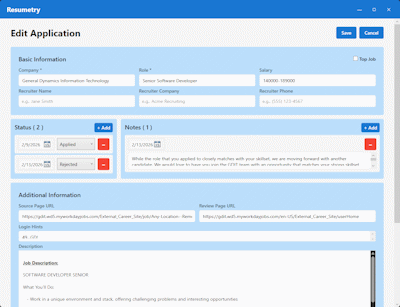
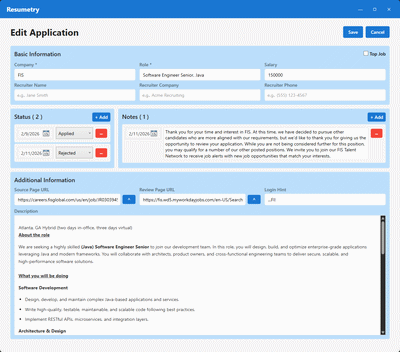
Button resize, added buttons to open browser for URLs.

diff --git a/Resumetry.WPF/Views/ApplicationFormView.xaml b/Resumetry.WPF/Views/ApplicationFormView.xaml
@@ -215,7 +215,7 @@
                                                         Command="{Binding DataContext.RemoveStatusCommand, RelativeSource={RelativeSource AncestorType=ItemsControl}}"
                                                         CommandParameter="{Binding}"
                                                         Width="36"
-                                                        Height="36"
+                                                        Height="28"
                                                         FontSize="18"
                                                         FontWeight="Bold"
                                                         Padding="0"
@@ -306,11 +306,12 @@
                                                             Command="{Binding DataContext.RemoveNoteCommand, RelativeSource={RelativeSource AncestorType=ItemsControl}}"
                                                             CommandParameter="{Binding}"
                                                             Width="36"
-                                                            Height="36"
+                                                            Height="28"
                                                             FontSize="18"
                                                             FontWeight="Bold"
                                                             Padding="0"
                                                             VerticalAlignment="Top"
+                                                            Margin="0 4 0 0"
                                                             ToolTip="Remove note"/>
                                                 </Grid>
                                             </Grid>
@@ -351,19 +352,58 @@
                             <!-- Source Page URL -->
                             <StackPanel Grid.Column="0">
                                 <TextBlock Text="Source Page URL" Style="{StaticResource FormLabelStyle}"/>
-                                <TextBox Text="{Binding SourcePageUrl, UpdateSourceTrigger=PropertyChanged}"
-                                         Style="{StaticResource ModernTextBoxStyle}"
-                                         helpers:WatermarkHelper.Watermark="https://..."
-                                         Height="36"/>
+                                <Grid Height="36">
+                                    <Grid.ColumnDefinitions>
+                                        <ColumnDefinition Width="*" />
+                                        <ColumnDefinition Width="40" />
+                                    </Grid.ColumnDefinitions>
+
+                                    <TextBox Grid.Column="0"
+                                             Text="{Binding SourcePageUrl, UpdateSourceTrigger=PropertyChanged}"
+                                             Style="{StaticResource ModernTextBoxStyle}"
+                                             helpers:WatermarkHelper.Watermark="https://..."
+                                             VerticalContentAlignment="Center"
+                                             Margin="0 0 6 0"/>
+
+                                    <!-- icon button -->
+                                    <Button Grid.Column="1"
+                                            Command="{Binding OpenUrlCommand}"
+                                            CommandParameter="{Binding SourcePageUrl}"
+                                            Style="{StaticResource PrimaryButtonStyle}"
+                                            Height="28"
+                                            Padding="0"
+                                            ToolTip="Open in browser"
+                                            Content="^"/>
+                                </Grid>
+
+
                             </StackPanel>
 
                             <!-- Review Page URL -->
                             <StackPanel Grid.Column="2">
                                 <TextBlock Text="Review Page URL" Style="{StaticResource FormLabelStyle}"/>
-                                <TextBox Text="{Binding ReviewPageUrl, UpdateSourceTrigger=PropertyChanged}"
-                                         Style="{StaticResource ModernTextBoxStyle}"
-                                         helpers:WatermarkHelper.Watermark="https://..."
-                                         Height="36"/>
+                                <Grid Height="36">
+                                    <Grid.ColumnDefinitions>
+                                        <ColumnDefinition Width="*" />
+                                        <ColumnDefinition Width="40" />
+                                    </Grid.ColumnDefinitions>
+
+                                    <TextBox Grid.Column="0"
+                                             Text="{Binding ReviewPageUrl, UpdateSourceTrigger=PropertyChanged}"
+                                             Style="{StaticResource ModernTextBoxStyle}"
+                                             helpers:WatermarkHelper.Watermark="https://..."
+                                             VerticalContentAlignment="Center"
+                                             Margin="0 0 6 0"/>
+
+                                    <Button Grid.Column="1"
+                                            Command="{Binding OpenUrlCommand}"
+                                            CommandParameter="{Binding ReviewPageUrl}"
+                                            Style="{StaticResource PrimaryButtonStyle}"
+                                            Height="28"
+                                            Padding="0"
+                                            ToolTip="Open in browser"
+                                            Content="^"/>
+                                </Grid>
                             </StackPanel>
                             
                             <!-- Login Hint -->

diff --git a/Resumetry.WPF/ViewModels/ApplicationFormViewModel.cs b/Resumetry.WPF/ViewModels/ApplicationFormViewModel.cs
@@ -1,4 +1,5 @@
 using System.Collections.ObjectModel;
+using System.Diagnostics;
 using CommunityToolkit.Mvvm.ComponentModel;
 using CommunityToolkit.Mvvm.Input;
 using CommunityToolkit.Mvvm.Messaging;
@@ -280,6 +281,21 @@ namespace Resumetry.ViewModels
         private void Cancel()
         {
             navigationService.NavigateToHome();
+        }
+
+        [RelayCommand]
+        private void OpenUrl(string? url)
+        {
+            if (string.IsNullOrWhiteSpace(url)) return;
+
+            try
+            {
+                Process.Start(new ProcessStartInfo(url) { UseShellExecute = true });
+            }
+            catch (Exception ex)
+            {
+                dialogService.ShowError($"Could not open URL: {ex.Message}", "Error");
+            }
         }
     }
 }
